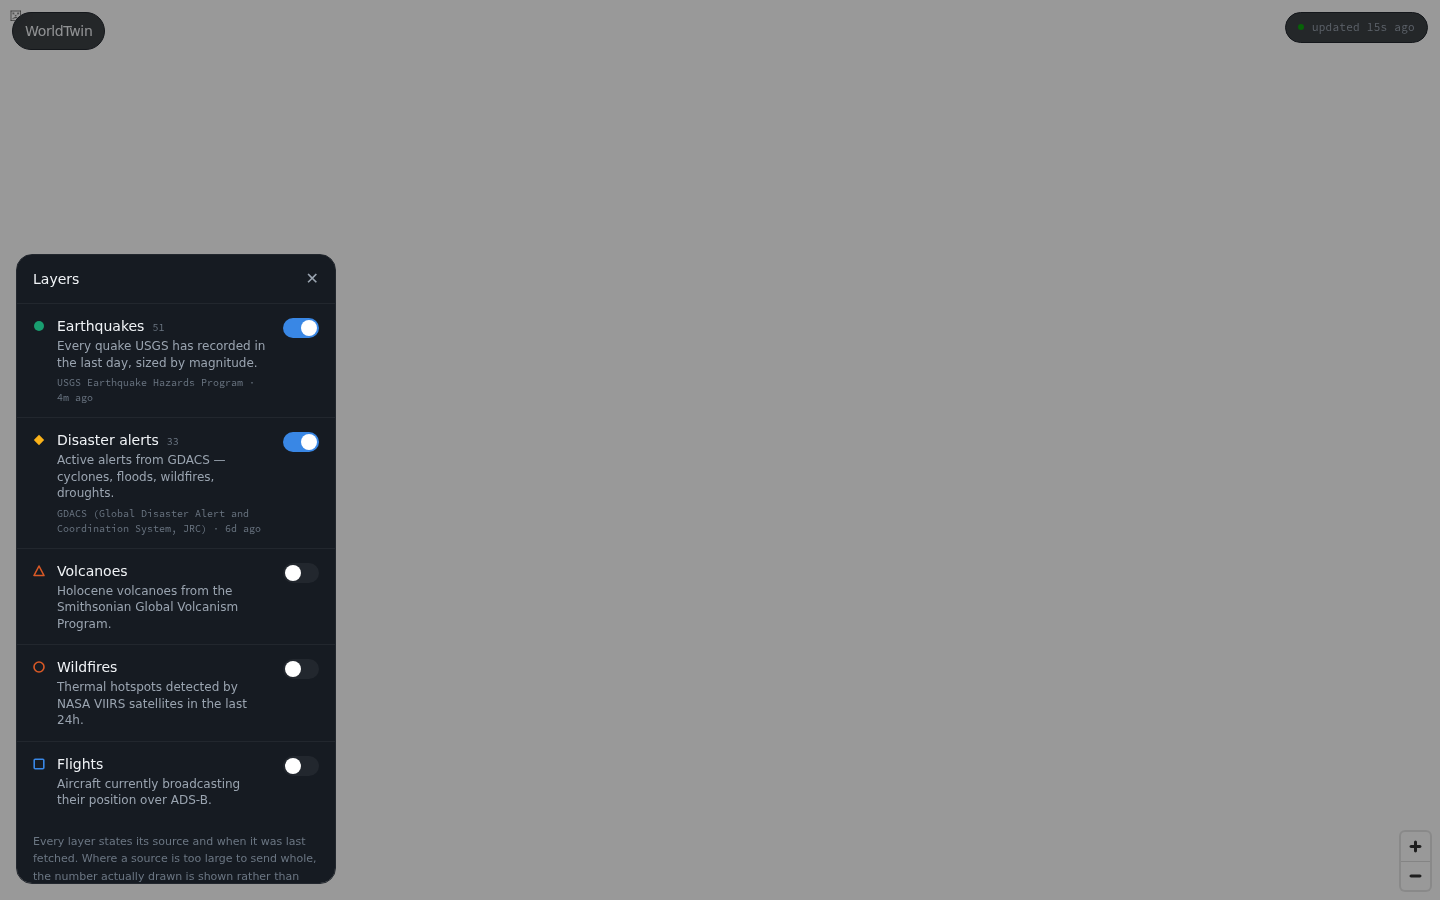
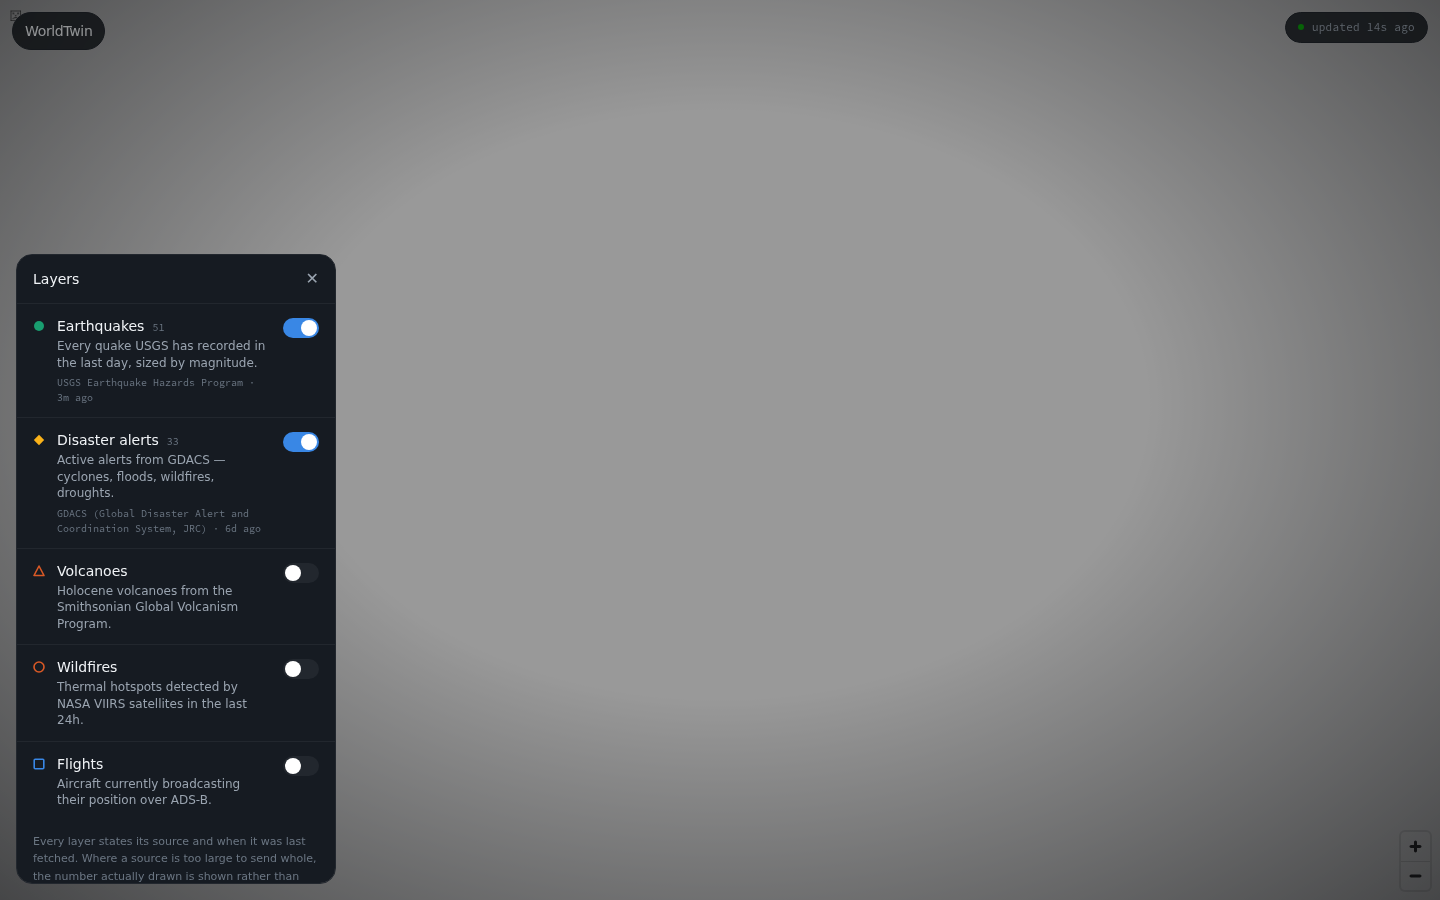
Make the globe look like a planet, not a diagram
The v2 client shipped on a grey vector street basemap — fast, but it read as a
diagram of Earth rather than Earth. Swapped to NASA GIBS Blue Marble (shaded
relief + bathymetry), keyless, with VIIRS city lights fading up as you approach
and Carto labels held back until past the whole-globe view so the planet stays
uncluttered at rest.

GIBS publishes to zoom 8 only, so the source caps there and MapLibre overzooms
instead of requesting tiles that 404. Its REST path is z/y/x, not z/x/y — the
token order in the URL is deliberate.

Imagery is tuned down (brightness/saturation/contrast) so the planet sits in
the same register as the dark UI and the data stays the brightest thing on
screen. Marks gain a blurred halo beneath them, because a flat dot vanishes
into terrain, plus a vignette to pull the eye to the centre and keep the bright
limb of the planet away from the chrome.

Smoke test: tile hosts are now exempt from request-failure reporting. Aborted
tiles are normal map behaviour and unconditional once the GL context dies.

Claude-Session: https://claude.ai/code/session_01N5ekPur6SziBCuXQ7yCjhf

Changed region(s): [[0.0, 0.0, 1.0, 1.0]]

diff --git a/app/src/components/GlobeMap.tsx b/app/src/components/GlobeMap.tsx
@@ -4,34 +4,89 @@ import { LAYERS } from '../layers/registry'
 import { makeShapeIcon } from '../lib/shapes'
 import type { LoadedLayer, Point } from '../lib/types'
 
-/** Keyless raster basemap. No Mapbox/MapTiler token to leak or rotate, and no
- *  third-party JS — just tiles. Carto's dark base is the same one the previous
- *  client used, so attribution and usage terms are unchanged. */
+/** Keyless imagery. No Mapbox/MapTiler token to leak or rotate and no
+ *  third-party JS — just tiles.
+ *
+ *  The basemap is NASA's Blue Marble (shaded relief + bathymetry) rather than a
+ *  vector street style: this is a view of a planet, and a grey road map reads as
+ *  a diagram of one. GIBS only publishes to zoom 8, so `maxzoom` is set there
+ *  and MapLibre overzooms rather than requesting tiles that 404.
+ *
+ *  Place labels ride on top from Carto, faded in only once you have zoomed past
+ *  the whole-globe view, so the planet stays uncluttered at rest. */
+const GIBS = 'https://gibs.earthdata.nasa.gov/wmts/epsg3857/best'
+
 const STYLE: StyleSpecification = {
   version: 8,
   projection: { type: 'globe' },
   sources: {
-    carto: {
+    bluemarble: {
+      type: 'raster',
+      // GIBS orders its REST path {TileMatrix}/{TileRow}/{TileCol} — z/y/x, not
+      // the usual z/x/y. MapLibre substitutes the tokens positionally, so the
+      // order below is deliberate.
+      tiles: [`${GIBS}/BlueMarble_ShadedRelief_Bathymetry/default/GoogleMapsCompatible_Level8/{z}/{y}/{x}.jpeg`],
+      tileSize: 256,
+      maxzoom: 8,
+      attribution:
+        'Imagery <a href="https://earthdata.nasa.gov/gibs">NASA EOSDIS GIBS</a> · labels © <a href="https://carto.com/attributions">CARTO</a>, OpenStreetMap',
+    },
+    citylights: {
+      type: 'raster',
+      tiles: [`${GIBS}/VIIRS_CityLights_2012/default/GoogleMapsCompatible_Level8/{z}/{y}/{x}.jpeg`],
+      tileSize: 256,
+      maxzoom: 8,
+    },
+    labels: {
       type: 'raster',
       tiles: [
-        'https://a.basemaps.cartocdn.com/dark_all/{z}/{x}/{y}@2x.png',
-        'https://b.basemaps.cartocdn.com/dark_all/{z}/{x}/{y}@2x.png',
-        'https://c.basemaps.cartocdn.com/dark_all/{z}/{x}/{y}@2x.png',
+        'https://a.basemaps.cartocdn.com/dark_only_labels/{z}/{x}/{y}@2x.png',
+        'https://b.basemaps.cartocdn.com/dark_only_labels/{z}/{x}/{y}@2x.png',
+        'https://c.basemaps.cartocdn.com/dark_only_labels/{z}/{x}/{y}@2x.png',
       ],
       tileSize: 256,
       maxzoom: 18,
-      attribution: '© <a href="https://carto.com/attributions">CARTO</a> © OpenStreetMap contributors',
     },
   },
   layers: [
-    { id: 'bg', type: 'background', paint: { 'background-color': '#0d1117' } },
-    { id: 'carto', type: 'raster', source: 'carto', paint: { 'raster-opacity': 0.92 } },
+    { id: 'space', type: 'background', paint: { 'background-color': '#05070b' } },
+    {
+      id: 'bluemarble',
+      type: 'raster',
+      source: 'bluemarble',
+      paint: {
+        // Tuned down so the planet sits in the same register as the dark UI and
+        // the data marks stay the brightest thing on screen.
+        'raster-brightness-max': 0.82,
+        'raster-saturation': -0.12,
+        'raster-contrast': 0.08,
+      },
+    },
+    {
+      id: 'citylights',
+      type: 'raster',
+      source: 'citylights',
+      // Human settlement, coming up as you approach. Kept low so it warms the
+      // night side rather than washing the imagery out.
+      paint: {
+        'raster-opacity': ['interpolate', ['linear'], ['zoom'], 0, 0.16, 3, 0.3, 6, 0.42],
+      },
+    },
+    {
+      id: 'labels',
+      type: 'raster',
+      source: 'labels',
+      paint: { 'raster-opacity': ['interpolate', ['linear'], ['zoom'], 1.8, 0, 3.2, 0.55, 6, 0.8] },
+    },
   ],
   sky: {
-    'sky-color': '#0d1117',
-    'horizon-color': '#1c2733',
+    'sky-color': '#060a12',
+    'horizon-color': '#2b5f8f',
     'fog-color': '#0d1117',
-    'fog-ground-blend': 0.6,
+    'fog-ground-blend': 0.7,
+    'horizon-fog-blend': 0.45,
+    'sky-horizon-blend': 0.7,
+    'atmosphere-blend': ['interpolate', ['linear'], ['zoom'], 0, 0.9, 6, 0.2],
   },
 }
 
@@ -93,6 +148,23 @@ export function GlobeMap({ loaded, active, onPick }: Props) {
           m.addImage(name, makeShapeIcon(def.shape, def.color), { pixelRatio: 2 })
         }
         m.addSource(def.id, { type: 'geojson', data: toFeatureCollection([]) })
+
+        // A soft halo beneath each mark. Against satellite imagery a flat dot
+        // disappears into terrain; the glow lifts it off the planet and gives
+        // the layer's hue somewhere to read from at a glance. Cheap — one
+        // blurred circle per point, drawn under the shape.
+        m.addLayer({
+          id: `${def.id}-glow`,
+          type: 'circle',
+          source: def.id,
+          paint: {
+            'circle-color': def.color,
+            'circle-radius': ['*', ['get', 'px'], 0.85],
+            'circle-blur': 1,
+            'circle-opacity': 0.45,
+          },
+        })
+
         m.addLayer({
           id: def.id,
           type: 'symbol',
@@ -142,10 +214,12 @@ export function GlobeMap({ loaded, active, onPick }: Props) {
       fc.features.forEach((f, i) => {
         const p = points[i]
         const px = def.sizeBy ? def.sizeBy(p) : def.size
-        f.properties = { ...f.properties, scale: px / 22 }
+        f.properties = { ...f.properties, scale: px / 22, px }
       })
       src.setData(fc)
-      m.setLayoutProperty(def.id, 'visibility', isOn ? 'visible' : 'none')
+      const vis = isOn ? 'visible' : 'none'
+      m.setLayoutProperty(def.id, 'visibility', vis)
+      m.setLayoutProperty(`${def.id}-glow`, 'visibility', vis)
     }
   }
 

diff --git a/app/src/App.tsx b/app/src/App.tsx
@@ -76,6 +76,14 @@ export default function App() {
     <div className="relative h-full w-full">
       <GlobeMap loaded={loaded} active={active} onPick={onPick} />
 
+      {/* Vignette. Pulls the eye to the centre of the globe and stops the bright
+          limb of the planet from fighting the chrome at the screen edges. */}
+      <div
+        className="pointer-events-none absolute inset-0 z-[5]"
+        style={{ background: 'radial-gradient(ellipse at 50% 45%, transparent 42%, rgba(3,5,9,0.55) 100%)' }}
+        aria-hidden
+      />
+
       <header className="pointer-events-none absolute inset-x-0 top-0 z-10 flex items-start justify-between gap-3 p-3 pt-[max(0.75rem,env(safe-area-inset-top))]">
         <div className="pointer-events-auto rounded-full border border-[var(--color-hairline)] bg-[var(--color-surface)]/80 px-3 py-1.5 backdrop-blur">
           <span className="text-sm font-medium tracking-tight">WorldTwin</span>
